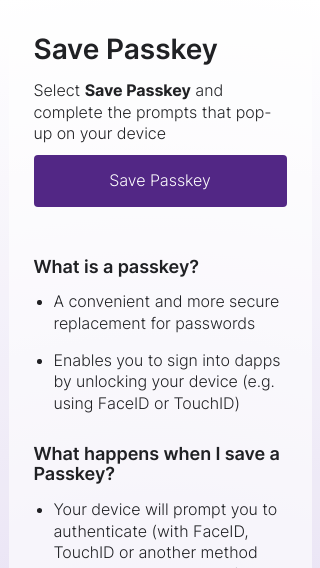
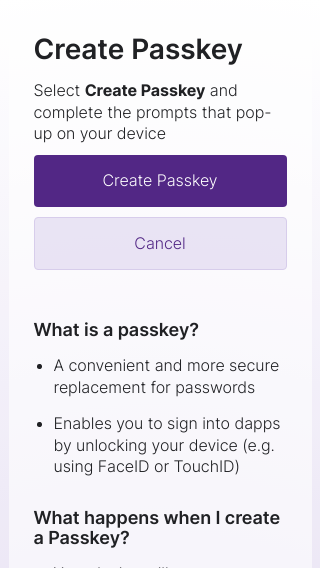
Update 'Create Passkey' page (#1546)
* Update 'Create Passkey' page

This includes a new button and updated copy.

* 🤖 Selenium screenshots auto-update

---------

diff --git a/src/frontend/src/flows/register/passkey.ts b/src/frontend/src/flows/register/passkey.ts
@@ -16,9 +16,11 @@ import copyJson from "./passkey.json";
 const savePasskeyTemplate = ({
   construct,
   i18n,
+  cancel,
 }: {
   construct: () => void;
   i18n: I18n;
+  cancel: () => void;
 }): TemplateResult => {
   const copy = i18n.i18n(copyJson);
   const slot = html`
@@ -36,6 +38,13 @@ const savePasskeyTemplate = ({
       class="c-button"
     >
       ${copy.save_passkey}
+    </button>
+    <button
+      @click=${() => cancel()}
+      data-action="cancel"
+      class="c-button c-button--secondary"
+    >
+      ${copy.cancel}
     </button>
     <section class="c-marketing-block">
       <aside class="l-stack">
@@ -67,10 +76,11 @@ const savePasskeyTemplate = ({
 export const savePasskeyPage = renderPage(savePasskeyTemplate);
 
 // Prompt the user to create a WebAuthn identity
-export const savePasskey = (): Promise<IIWebAuthnIdentity> => {
+export const savePasskey = (): Promise<IIWebAuthnIdentity | "canceled"> => {
   return new Promise((resolve) =>
     savePasskeyPage({
       i18n: new I18n(),
+      cancel: () => resolve("canceled"),
       construct: async () => {
         try {
           const identity = await withLoader(() => constructIdentity({}));

diff --git a/src/frontend/src/flows/register/index.ts b/src/frontend/src/flows/register/index.ts
@@ -27,6 +27,9 @@ export const register = async ({
     // have a captcha to show once we get to the CAPTCHA screen
     const preloadedChallenge = connection.createChallenge();
     const identity = await savePasskey();
+    if (identity === "canceled") {
+      return cancel;
+    }
 
     const captchaResult = await promptCaptcha({
       connection,

diff --git a/src/showcase/src/showcase.ts b/src/showcase/src/showcase.ts
@@ -200,6 +200,7 @@ const iiPages: Record<string, () => void> = {
   savePasskey: () =>
     savePasskeyPage({
       i18n,
+      cancel: () => console.log("cancel"),
       construct: () =>
         new Promise((_) => {
           console.log("Identity Construction");
